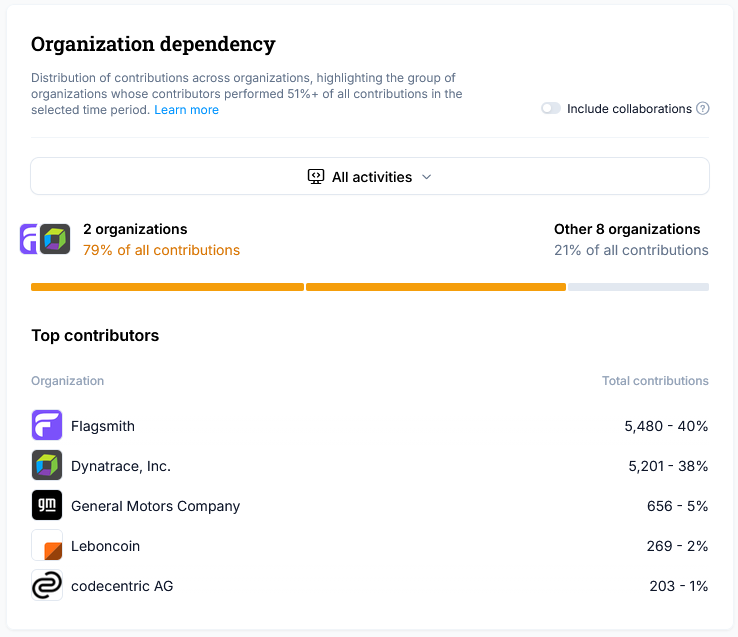
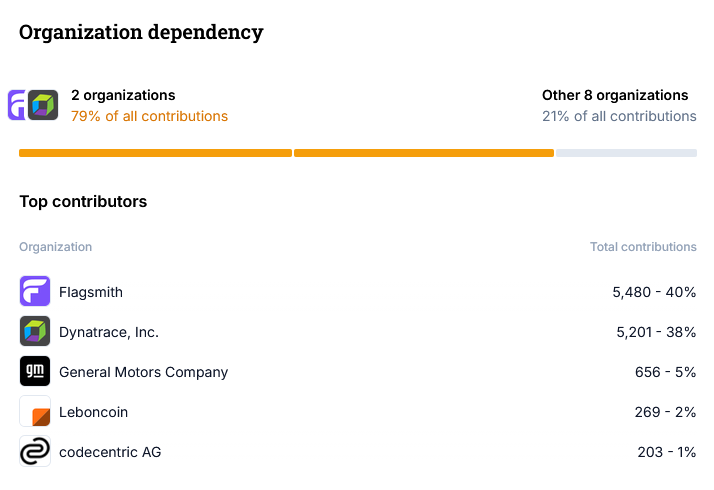
Crop the ninety-day chart to match the five-year one
GitHub frames the two differently: the newer screenshot carries a card border, a
paragraph explaining the metric, an "Include collaborations" toggle and an "All
activities" selector that the older one has none of. Side by side that reads as
two different views, which is the one thing the click cannot afford — the room
has to see the same chart twice with different numbers in it.

Cut down to what the five-year one shows: title, the split, the bar, the top
contributors, and nothing else, with the spacing between title and split scaled
to match.

Also fixes the image geometry. Each chart sits in an absolutely positioned box,
and a shrink-to-fit box takes its width from the widest child's preferred width
— which was the caption, not the chart. The image was squashed to caption width
while its fixed height held, so it rendered as a tall narrow strip. Spanning the
box across the full slide removes the circularity.

diff --git a/slides.md b/slides.md
@@ -501,11 +501,11 @@ clicks: 2
 # Who paid the engineers?
 
 <div class="mt-6 relative h-[19rem]">
-  <div v-click.hide="1" class="absolute left-1/2 -translate-x-1/2 flex flex-col items-center">
+  <div v-click.hide="1" class="absolute left-0 right-0 flex flex-col items-center">
     <img src="/org-dependency.png" class="shot h-[17rem] w-auto" alt="GitHub organization dependency over five years: one organization at 60% of all contributions, nine others sharing the remaining 40%. Top contributor Dynatrace, 31,843 contributions." />
     <div class="mt-3 text-xs uppercase tracking-widest opacity-45">the last five years</div>
   </div>
-  <div v-click="1" class="absolute left-1/2 -translate-x-1/2 flex flex-col items-center">
+  <div v-click="1" class="absolute left-0 right-0 flex flex-col items-center">
     <img src="/org-dependency-now.png" class="shot h-[17rem] w-auto" alt="The same chart over ninety days: two organizations at 79% of all contributions, eight others sharing 21%. Flagsmith 5,480 at 40%, Dynatrace 5,201 at 38%, then General Motors, Leboncoin and codecentric." />
     <div class="mt-3 text-xs uppercase tracking-widest opacity-45">the last ninety days</div>
   </div>
